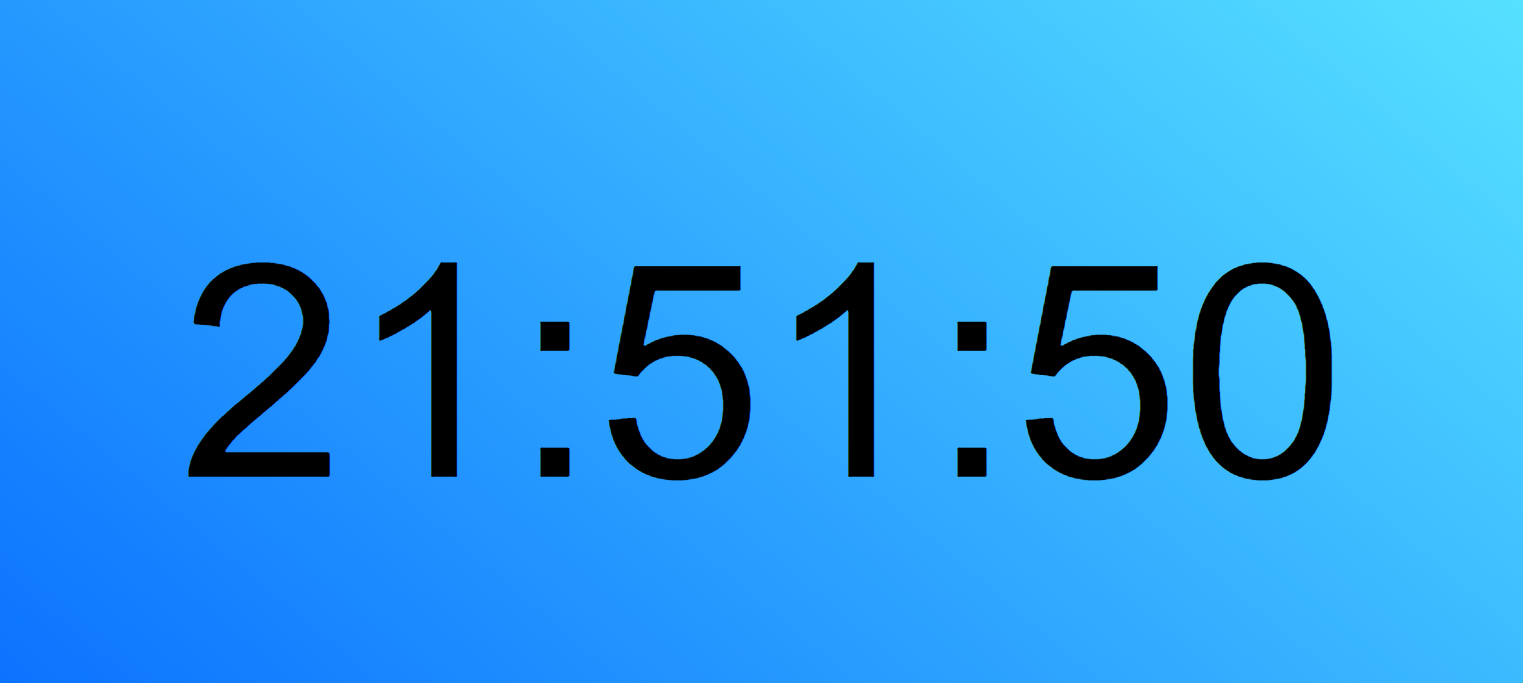
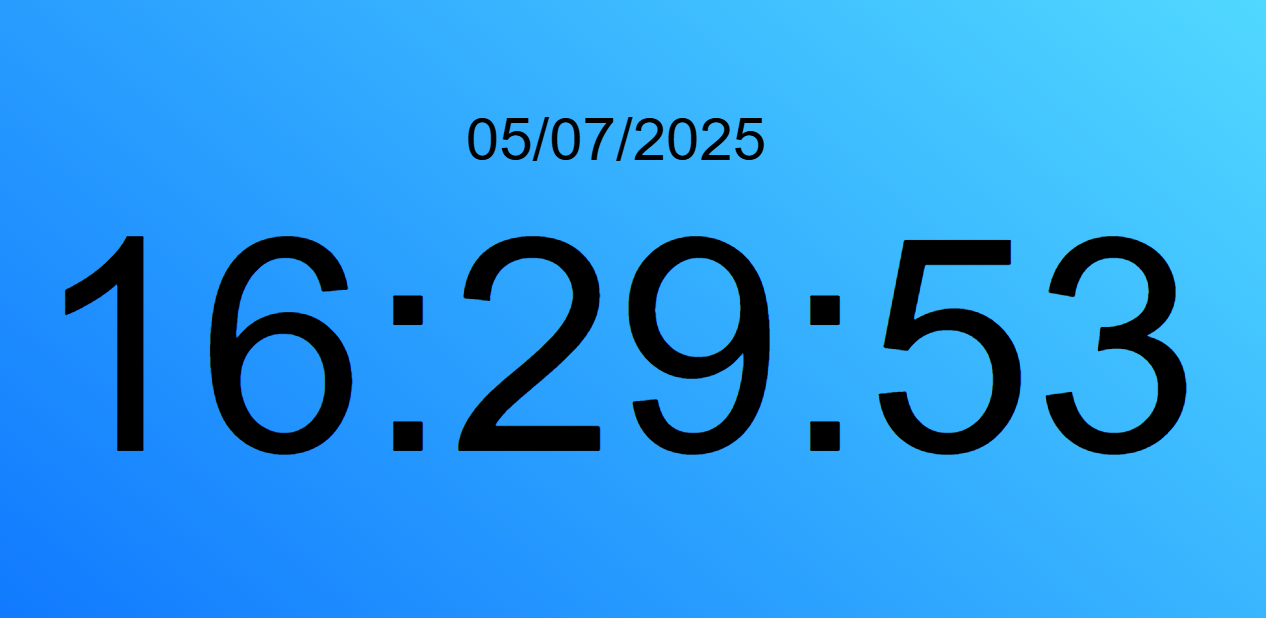
relogio

Changed region(s): [[0.0308, 0.3689, 0.955, 0.7379], [0.3697, 0.1845, 0.6161, 0.2767]]

diff --git a/script.js b/script.js
@@ -1,12 +1,20 @@
 function updateTime() {
     const timeElement = document.getElementById('time');
+    const dataElement = document.getElementById('data');
     const now = new Date;
+
     const horas = now.getHours().toString().padStart(2,'0');
     const minutos = now.getMinutes().toString().padStart(2,'0');
     const secundos = now.getSeconds().toString().padStart(2,'0');
+    
+    const dia = now.getDate().toString().padStart(2, '0');
+    const mes = (now.getMonth() + 1).toString().padStart(2, '0');
+    const ano = now.getFullYear();
 
     const timeString = `${horas}:${minutos}:${secundos}`;
+    const dateString = `${dia}/${mes}/${ano}`;
     timeElement.textContent = timeString;
+    dataElement.textContent = dateString;
 }
 
 setInterval(updateTime, 1000);

diff --git a/style.css b/style.css
@@ -1,15 +1,25 @@
+*{
+    margin: 0;
+    padding: 0;
+}
+
 body{
     width: 100%;
     height: 100vh;
-    margin: 0;
     display: flex;
     align-items: center;
     justify-content: center;
+    flex-direction: column;
     font-family: Arial, Helvetica, sans-serif;
     background: linear-gradient(40deg, #0061ff, #60efff);
 }
 
 h1{
     font-size: 15rem;
+    font-weight: 400;
+}
+
+h3{
+    font-size: 3rem;
     font-weight: 400;
 }

diff --git a/index.html b/index.html
@@ -7,6 +7,7 @@
     <title>Relógio Digital</title>
 </head>
 <body>
+    <h3 id="data">data</h3>
     <h1 id="time">12:00:00</h1>
     <script src="./script.js"></script>
 </body>
